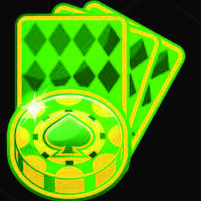
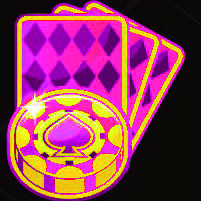
Remade symbols with unique IDs

diff --git a/Slotmachine/Form1.cs b/Slotmachine/Form1.cs
@@ -14,8 +14,9 @@ namespace Slotmachine
     {
         private List<Symbol> symbols;
         private Dictionary<int, PictureBox> tiles;
-        private List<String> tickets;
+        private List<Symbol> tickets;
         private Random rand;
+        private Symbol[,] board;
 
         public Form1()
         {
@@ -30,18 +31,18 @@ namespace Slotmachine
         {
             symbols = new List<Symbol>();
             //commons
-            symbols.Add(new Symbol("ten", 0, 0.5, 5, 10));
-            symbols.Add(new Symbol("jack", 0, 0.5, 5, 12.5));
-            symbols.Add(new Symbol("queen", 0, 0.5, 5, 15));
-            symbols.Add(new Symbol("king", 0, 0.8, 6, 20));
-            symbols.Add(new Symbol("ace", 0, 0.8, 6, 25));
+            symbols.Add(new Symbol(0,"ten", 0, 0.5, 5, 10));
+            symbols.Add(new Symbol(1,"jack", 0, 0.5, 5, 12.5));
+            symbols.Add(new Symbol(2,"queen", 0, 0.5, 5, 15));
+            symbols.Add(new Symbol(3,"king", 0, 0.8, 6, 20));
+            symbols.Add(new Symbol(4,"ace", 0, 0.8, 6, 25));
 
             //rares
-            symbols.Add(new Symbol("blue", 0.2, 1, 7, 50));
-            symbols.Add(new Symbol("purple", 0.3, 1.2, 7.5, 75));
-            symbols.Add(new Symbol("pink", 0.4, 1.4, 8, 100));
-            symbols.Add(new Symbol("red", 0.5, 1.6, 9, 150));
-            symbols.Add(new Symbol("gold", 1, 2, 10, 500));
+            symbols.Add(new Symbol(5,"blue", 0.2, 1, 7, 50));
+            symbols.Add(new Symbol(6,"purple", 0.3, 1.2, 7.5, 75));
+            symbols.Add(new Symbol(7,"pink", 0.4, 1.4, 8, 100));
+            symbols.Add(new Symbol(8,"red", 0.5, 1.6, 9, 150));
+            symbols.Add(new Symbol(9,"gold", 1, 2, 10, 500));
 
             //Show all symbol data in console
             /*
@@ -82,12 +83,12 @@ namespace Slotmachine
         {
             //We fill a list with tickets that represent the symbols
             //Each symbol has 1000/payout5 tickets. Rare symbol -> less tickets
-            tickets = new List<string>();
+            tickets = new List<Symbol>();
             foreach (Symbol item in symbols)
             {
                 for (int i = 0; i < Math.Round(1000 / item.Payout5); i++)
                 {
-                    tickets.Add(item.Name);
+                    tickets.Add(item);
                 }
             }
             /*
@@ -100,7 +101,6 @@ namespace Slotmachine
         private void button1_MouseClick(object sender, MouseEventArgs e)
         {
             Spin();
-            //RevealTiles();
         }
         public async void Spin()
         {
@@ -109,38 +109,27 @@ namespace Slotmachine
             {
                 item.Value.Image = Image.FromFile("loading.jpg");
             }
+            board = new Symbol[5, 3];
 
             //Generate next roll. i = coloumn
             for (int i = 0; i < 5; i++)
             {
                 //item.Value.Visible = false;
-                //We randomly select tickets and set the current tiles of the current coloumn(i)
+                //We randomly select tickets and set the current tiles of the current coloumn(i). also store the values in out symbol matrix
                 int ticket = rand.Next(0, tickets.Count());
-                String symbol = tickets[ticket];
-                tiles[1 + i].Image = Image.FromFile(symbol + ".jpg");
+                Symbol symbol = tickets[ticket];
+                tiles[1 + i].Image = Image.FromFile(symbol.Name + ".jpg");
+                //board[i, i + 1] = symbol;
 
                 ticket = rand.Next(0, tickets.Count());
                 symbol = tickets[ticket];
-                tiles[6 + i].Image = Image.FromFile(symbol + ".jpg");
+                tiles[6 + i].Image = Image.FromFile(symbol.Name + ".jpg");
 
                 ticket = rand.Next(0, tickets.Count());
                 symbol = tickets[ticket];
-                tiles[11 + i].Image = Image.FromFile(symbol + ".jpg");
-                await Task.Delay(50);
+                tiles[11 + i].Image = Image.FromFile(symbol.Name + ".jpg");
+                await Task.Delay(100);
             }
         }
-
-        /*
-        public async void RevealTiles()
-        {
-            for (int i = 0; i < 5; i++)
-            {
-                tiles[1+i].Visible = true;
-                tiles[6+i].Visible = true;
-                tiles[11+i].Visible = true;
-                await Task.Delay(300);
-            }
-        }
-        */
     }
 }

diff --git a/Slotmachine/Symbol.cs b/Slotmachine/Symbol.cs
@@ -8,20 +8,24 @@ namespace Slotmachine
 {
     class Symbol
     {
+        private int id;
         private string name;
         private double payout2;
         private double payout3;
         private double payout4;
         private double payout5;
 
-        public string Name { get => name; }
-        public double Payout2 { get => payout2; }
-        public double Payout3 { get => payout3; }
-        public double Payout4 { get => payout4; }
-        public double Payout5 { get => payout5; }
+         public int Id { get => id; set => id = value; }
+        public string Name { get => name; set => name = value; }
+        public double Payout2 { get => payout2; set => payout2 = value; }
+        public double Payout3 { get => payout3; set => payout3 = value; }
+        public double Payout4 { get => payout4; set => payout4 = value; }
+        public double Payout5 { get => payout5; set => payout5 = value; }
 
-        public Symbol(string name, double payout2, double payout3, double payout4, double payout5)
+
+        public Symbol(int id, string name, double payout2, double payout3, double payout4, double payout5)
         {
+            this.id = id;
             this.name = name;
             this.payout2 = payout2;
             this.payout3 = payout3;
@@ -29,9 +33,10 @@ namespace Slotmachine
             this.payout5 = payout5;
         }
 
+      
         public override String ToString()
         {
-            return String.Format("{0}\n{1} {2} {3} {4}\n",this.name,this.payout2,this.payout3,this.payout4,this.payout5);
+            return String.Format("{0}\n{1}\n {2} {3} {4} {5}\n",this.id,this.name,this.payout2,this.payout3,this.payout4,this.payout5);
         }
     }
 }
